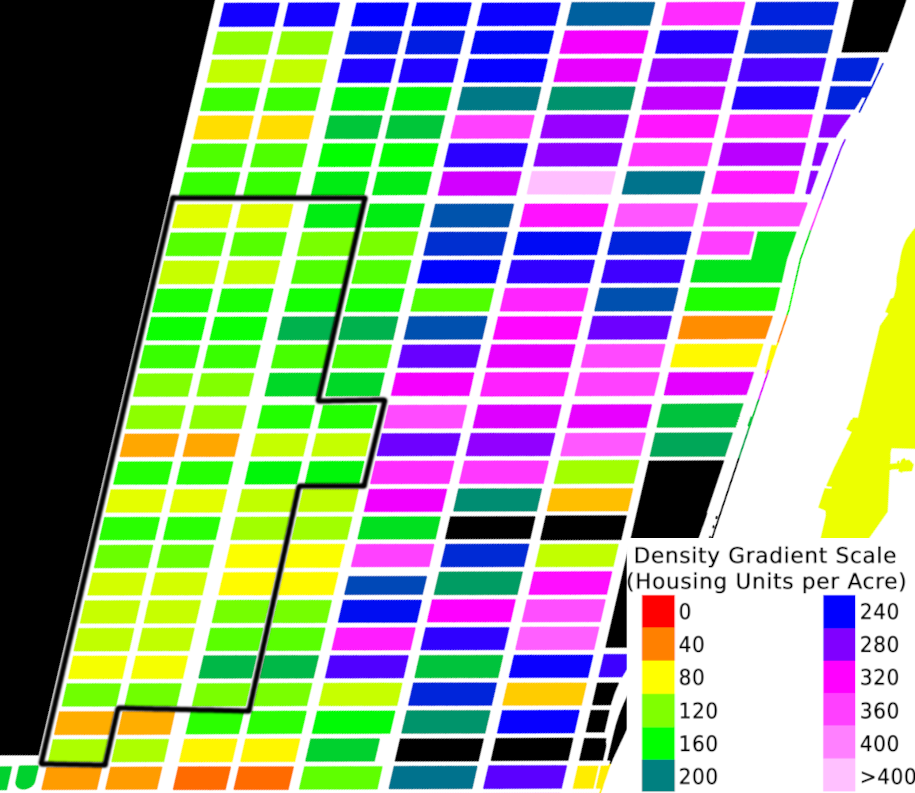
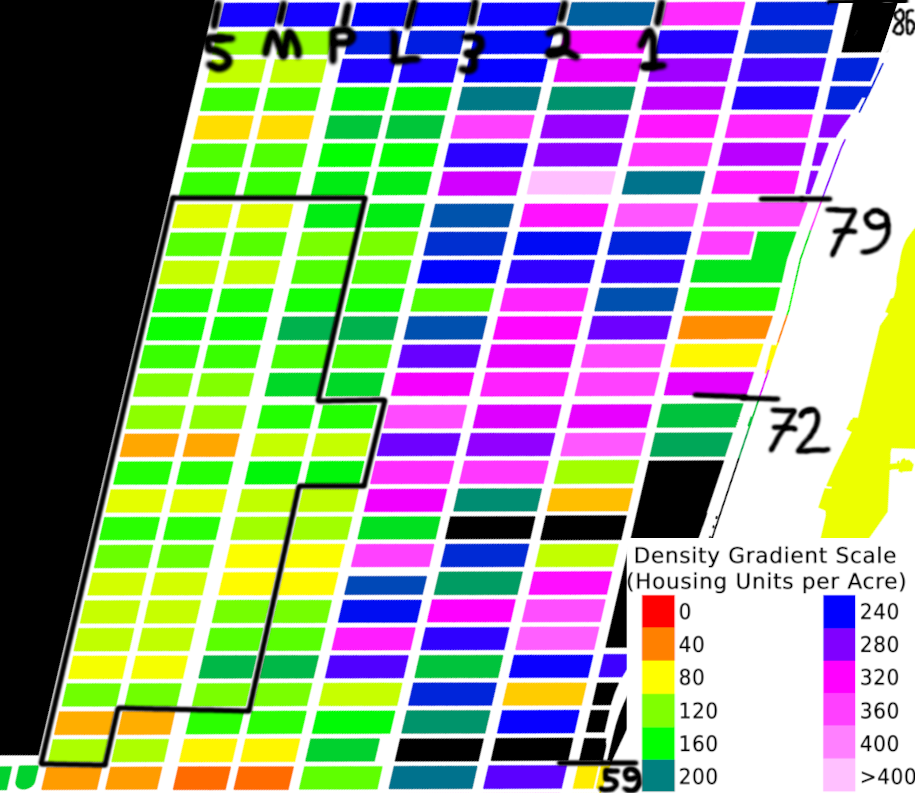
added new ues photos, got about halfway through ues section

diff --git a/posts/densitymappercont.md b/posts/densitymappercont.md
@@ -119,6 +119,40 @@ Concerns of the rich and their property values are mostly moot and inexcusable w
 In sum, while its solution is **_NOWHERE_** near enough to fix the housing and housing affordability crises, the situation belying the two districts of SoHo shows how arbitrary housing price differences are. While this can be bleak, it is also a positive message in some way: we can just as arbitrarily lower these prices by reintroducing density into the equation. Densification almost always allows for greater affordability. Towards that end, there is a more exceptional tale I must tell...
 
 ##### East Side Story
+
+Similarly to SoHo, one can find a strange split in density between the two parts of the Upper East Side.
+
+![UES Split Render](/assets/images/3_uesrendernohist.png)
+
+What we're essentially seeing is a 100% increase in density just by jumping one block. Once again, one street, 3rd Avenue in our case, serves as the defacto border between two differing regions of density. Though the orientation is reversed, the story is the same. West of 3rd Avenue, and especially below 79th Street, the housing density is around 100 to 180 units per acre on average. East of 3rd Avenue, and especially below 79th Street, the housing density is around 220 to 360 units per acre on average. You once again might be wondering: "These two blocks must have different types and sizes of buildings, right?"
+
+Here, things are a little more clear. Try to guess which photo is from the UES west of 3rd Avenue (we'll call this WUES for convenience), and which photo is from the UES east of 3rd Avenue (we'll call this EUES for convenience).
+
+![1](/assets/images/3_ues1.jpg)
+![2](/assets/images/3_ues2.jpg)
+
+If you guessed that 1 was EUES and that 2 was WUES, and that you thought this was comically easy, you'd be double right! The built environment of these two parts of the Upper East Side are **VERY** different. While WUES has a consistent, uniform building height of around 12-16 stories, EUES is sporadic and chaotic in its building heights, with buildings ranging from three to a whopping 50 or more stories tall. This was no accident. Much like in SoHo, this difference in density was the result of deliberate zoning decisions. UES takes it up a notch by adding political and zoning battles that to this day represent the ongoing war between history and progress, preservation and density, NIMBYs and YIMBYs.
+
+Let's quickly make something clear. As we're going to see later, the border between skyscraper EUES and uniform WUES isn't clear cut, and it's definitely not always going to be 3rd Avenue. The reason it appears this way on the density map render is because of a limitation in the categorization of blocks in New York City's zoning code. 
+
+The block between 5th Avenue and Park Avenue, Madison Avenue, and the block between Park Avenue and 3rd Avenue, Lexington Avenue, were built through Manhattan a while after the original 1810 grid plan in an attempt to boost retail potential on the east side. This resulted in two new up/down avenues, new buildings, and eventually led the way for the Lexington Avenue Subway decades later. However, all of this progress in Manhattan's street system was never picked up by the taxonomy of NYC's zoning code, which to this day refuses to recognize these two new avenues as legitimate separations between blocks, instead treating 5th to Park and Park to 3rd each as one super long block. 
+
+![5toPark](/assets/images/3_5parkblock.png)
+![Parkto3](/assets/images/3_3parkblock.png)
+#### A representation of two sample blocks in the Upper East Side according to NYC's zoning code. Madison and Lexington Avenues fail to separate these two blocks in the code, and thus they stretch across from 5th Avenue to Park Avenue, and Park Avenue to 3rd Avenue respectively.
+
+My program takes this data, lack of specificities and all, and produces a map of density by the block assuming that Madison and Lexington don't exist. Any changes in density between Park Avenue and 3rd Avenue are muddled out and the average is taken. If the density between Lexington and 3rd on a given block is double that of one between Park and Lexington on the same cross-street, the map will regardless show the two blocks as equally dense, because they are considered the same block by the NYC zoning code.
+
+This is important to keep in mind as we head to the reason why EUES and WUES are so different, that being the Upper East Side Historic District.
+
+![Historic District Map](/assets/images/3_ueshdmap.png)
+
+This is the up to date map of the Upper East Side Historic District, with its 2010 expansion. It stretches to Lexington from 61st Street up to 69th Street, and straddles mid-block between Lexington and 3rd Avenues from 69th Street up to 76th Street, before retreating back to Lexington for its last three blocks uptown. As you can see, the eastern boundary of the district varies depending on the cross-street, so just saying "3rd Avenue" as the boundary does not do this complex border justice. Saying that the border is "somewhere between Park and 3rd Avenues" would be more accurate, which is why Lexington Avenue can vary greatly in character depending on where one is located in the Upper East Side. 
+
+This district was first considered for establishment in 1979, and was passed in 1981, with a national registration in 1984. During the 1980s, while the district was just finishing up making its way through the legal pipeline, development of apartment buildings in the Upper East Side was beginning to reach higher and higher into the sky. With the recent establishment of this historic district in the WUES, all of these buildings had no choice but to build in the EUES, mostly east of Lexington Avenue, in order to get permits. Historic districts generally have very restrictive rules on what can or cannot be built, including buildings that would actually **_match_** the older style of the neighborhood, for fear of "copying" the classic architecture. With the character of the WUES locked into place, development cramped itself into the EUES, with buildings reaching into the thirties and forties of stories as housing demands continued to push the neighborhood into the sky. As a result, densities in the EUES crept ever upward, far outpacing that of the WUES.
+
+As the late 80s approached, the rapid construction of towers reached a breaking point in city planning politics, with two major belligerents: the NYC Planning Department, who saw the need for more housing and continuous upscaling in the EUES, and neighborhood preservation groups like Civitas, who felt that the new towers were antithetical to the character of the UES, and that their construction would ultimately ruin the neighborhood.
+
 -similarly to soho, UES is split into two regions, also west and east
 -western side (5th av to generally around lexington) is labeled historic district from 59 to 79 (above 79 does not concern us) (https://www.nyc.gov/assets/lpc/downloads/pdf/maps/HistoricDistrictMaps/Manhattan/Upper_East_Side.pdf) starting in ~1979-1981 (http://s-media.nyc.gov/agencies/lpc/lp/1051.pdf)
 -eastern side has no historic protections whatsoever, but this actually isnt as bad as it sounds
